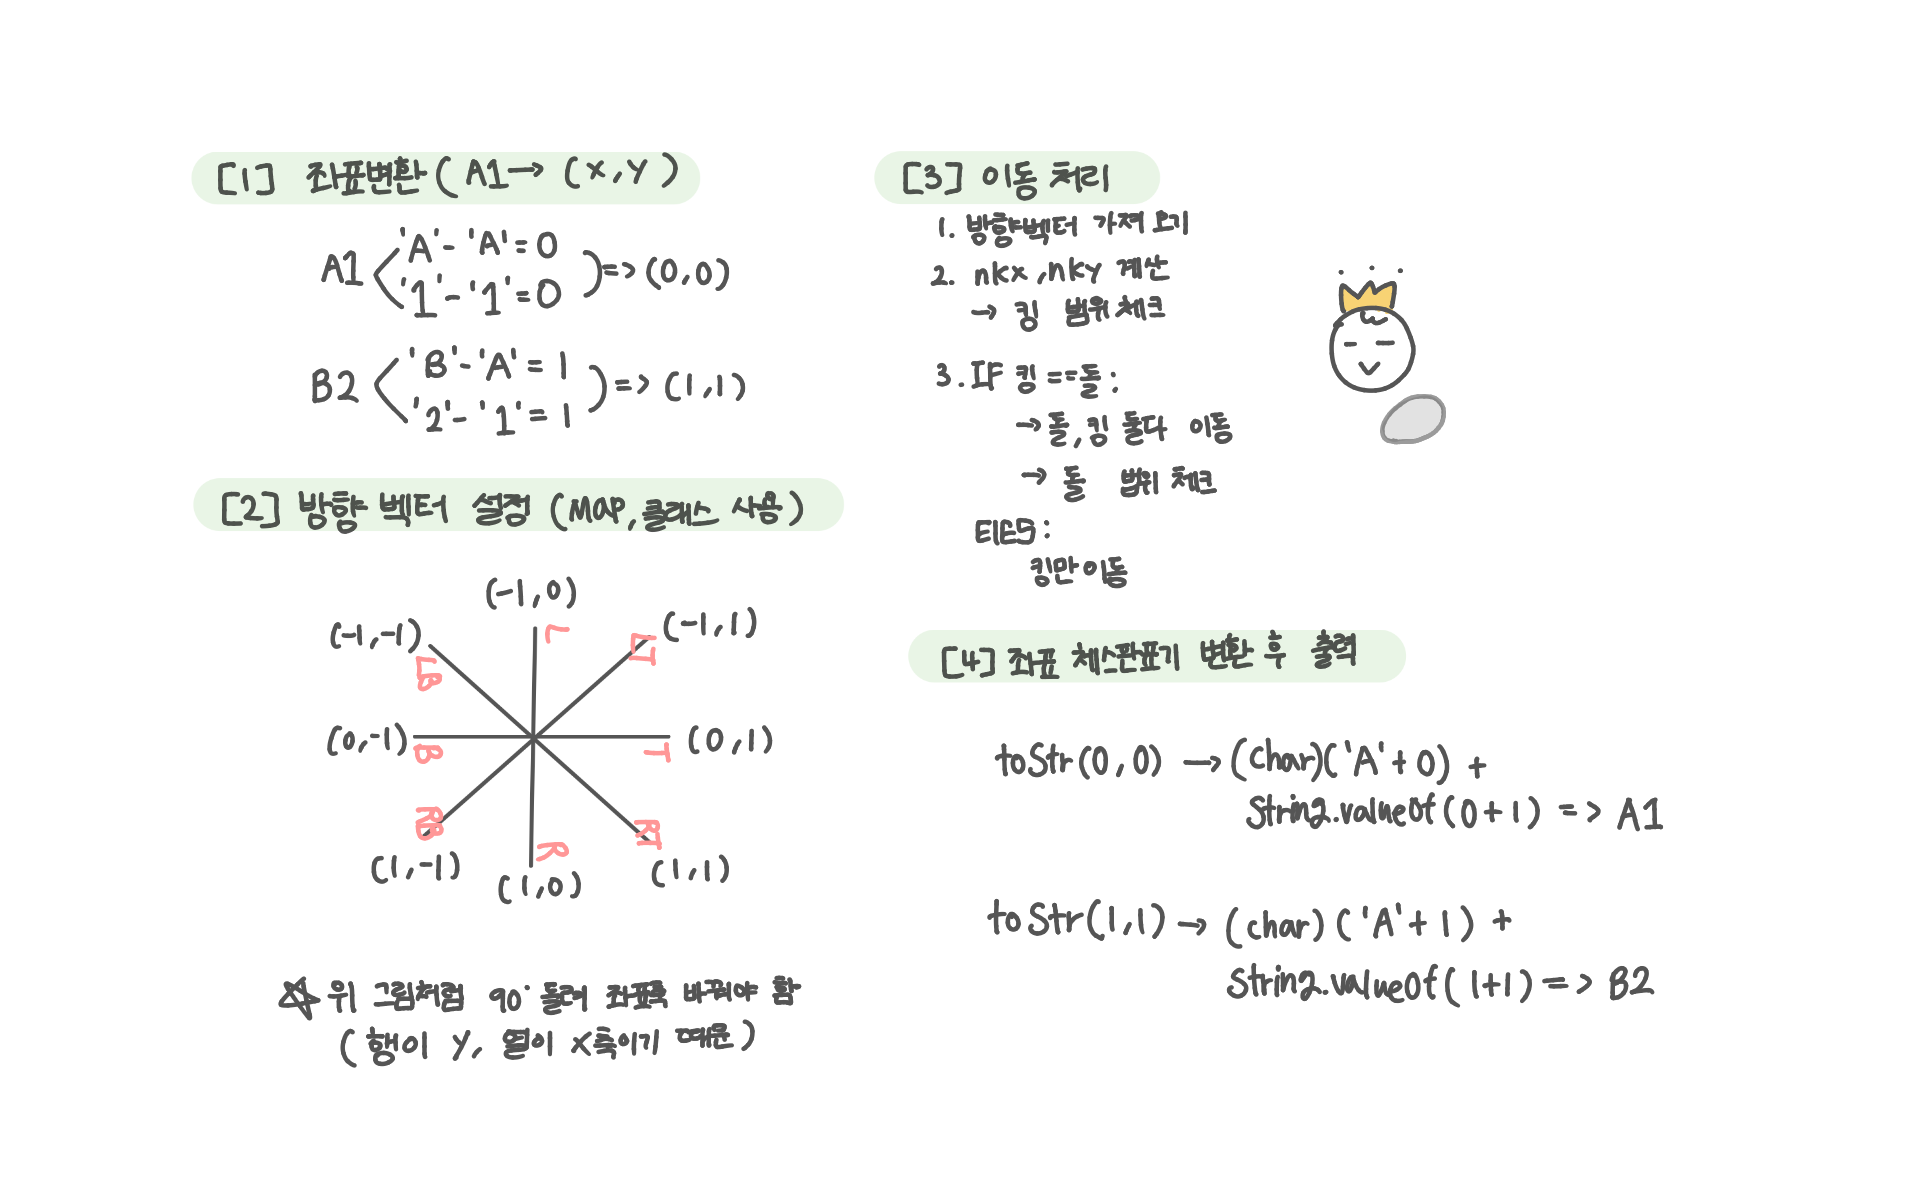
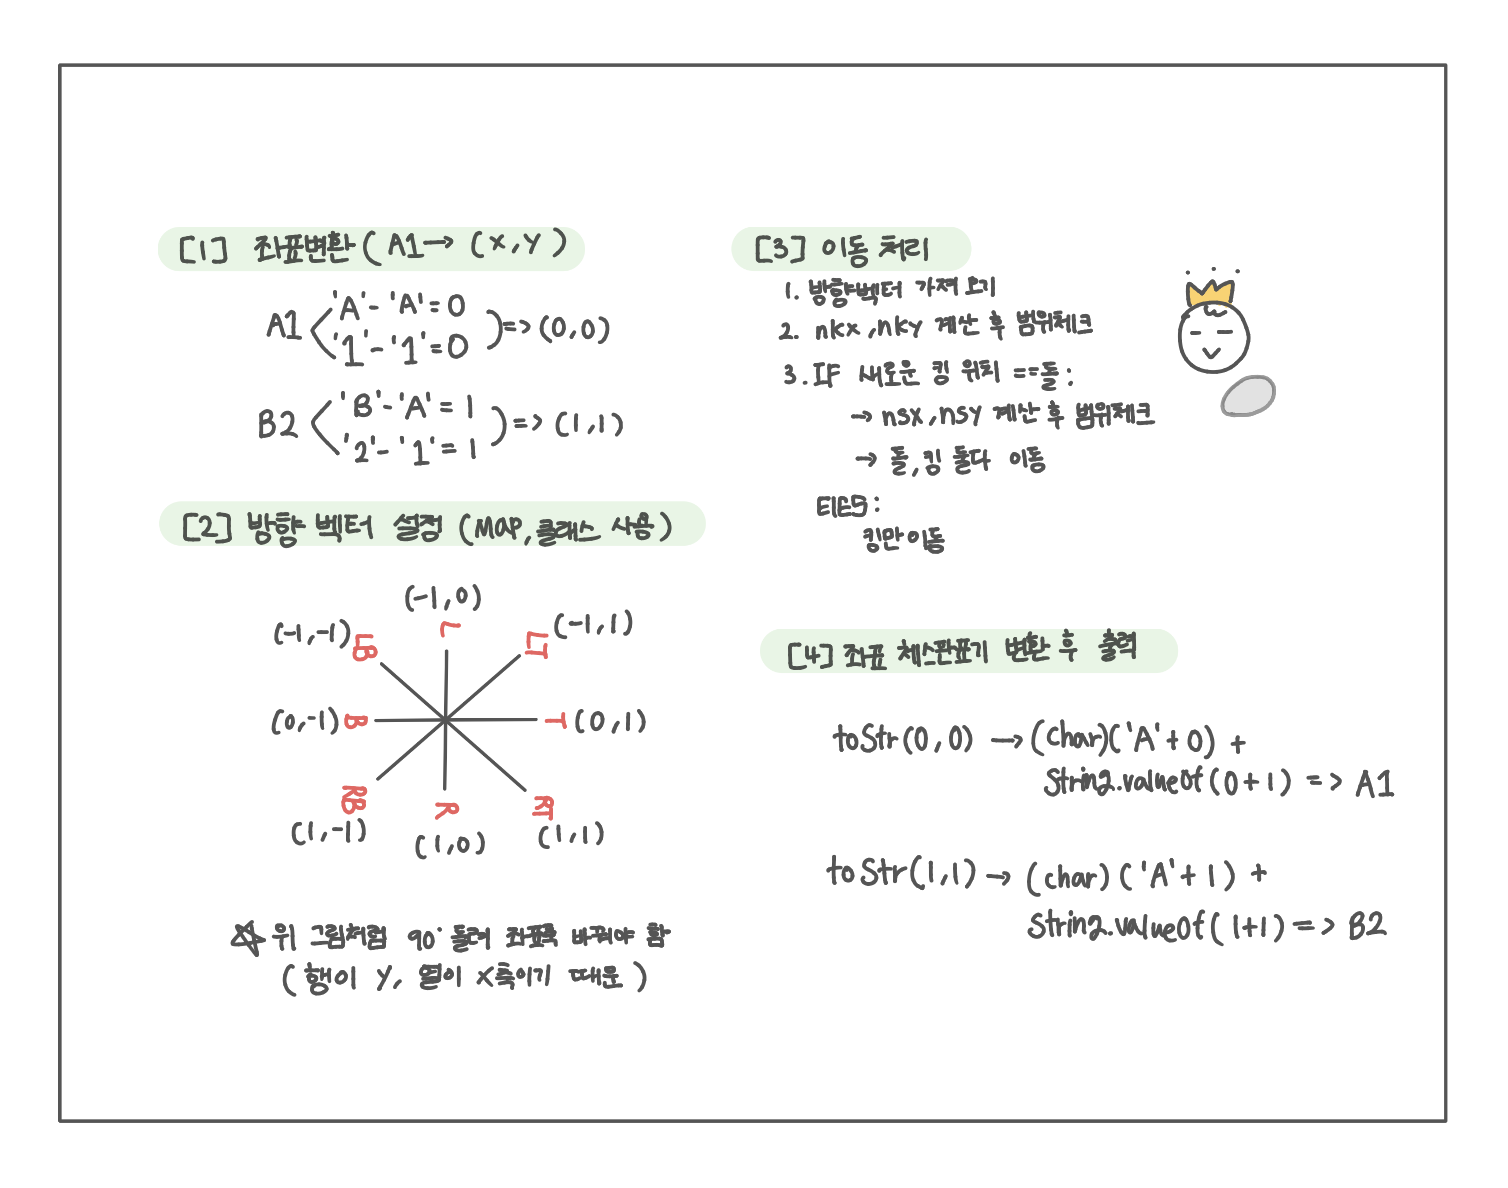
백준 20436번 - ZOAC 3

diff --git a/_posts/CS/Algorithm/2025-08-12-[JAVA] 백준 20436번 - ZOAC 3.md b/_posts/CS/Algorithm/2025-08-12-[JAVA] 백준 20436번 - ZOAC 3.md
@@ -23,20 +23,102 @@ sidebar:
 
 ## 문제 도식화
 
-<br>
-
-## 알고리즘 선택
-
-<br>
-
-## 배운 점
+![assets/images/2025/20436.png](../../../assets/images/2025/20436.png)
 
 <br><br>
 
 # 💻 전체 코드
 
 ```java
+import java.io.*;
+import java.util.*;
 
+public class Main {
+    static Map<Character, Pos> leftKeyMap = new HashMap<>();
+    static Map<Character, Pos> rightKeyMap = new HashMap<>();
+    static Pos leftPos, rightPos;
+
+    public static void main(String[] args) throws IOException {
+        BufferedReader br = new BufferedReader(new InputStreamReader(System.in));
+
+        StringTokenizer st = new StringTokenizer(br.readLine());
+        char sl = st.nextToken().charAt(0); // 왼손 시작 키
+        char sr = st.nextToken().charAt(0); // 오른손 시작 키
+
+        String input = br.readLine();
+
+        initKeyboard();
+
+        // 시작 위치 지정
+        leftPos = leftKeyMap.get(sl);
+        rightPos = rightKeyMap.get(sr);
+
+        int result = calTime(input);
+        System.out.println(result);
+    }
+
+
+    static int calTime(String s){
+        int totalTime = 0;
+
+        for(int i=0; i<s.length(); i++){
+            char ch = s.charAt(i);
+
+            if (leftKeyMap.containsKey(ch)) {
+                Pos next = leftKeyMap.get(ch);
+                totalTime += Math.abs(leftPos.x - next.x) + Math.abs(leftPos.y - next.y) + 1;
+                leftPos = next;
+            } else {
+                Pos next = rightKeyMap.get(ch);
+                totalTime += Math.abs(rightPos.x - next.x) + Math.abs(rightPos.y - next.y) + 1;
+                rightPos = next;
+            }
+        }
+        return totalTime;
+    }
+
+    static void initKeyboard(){
+        // 왼손 키
+        leftKeyMap.put('q', new Pos(0, 0));
+        leftKeyMap.put('w', new Pos(0, 1));
+        leftKeyMap.put('e', new Pos(0, 2));
+        leftKeyMap.put('r', new Pos(0, 3));
+        leftKeyMap.put('t', new Pos(0, 4));
+        leftKeyMap.put('a', new Pos(1, 0));
+        leftKeyMap.put('s', new Pos(1, 1));
+        leftKeyMap.put('d', new Pos(1, 2));
+        leftKeyMap.put('f', new Pos(1, 3));
+        leftKeyMap.put('g', new Pos(1, 4));
+        leftKeyMap.put('z', new Pos(2, 0));
+        leftKeyMap.put('x', new Pos(2, 1));
+        leftKeyMap.put('c', new Pos(2, 2));
+        leftKeyMap.put('v', new Pos(2, 3));
+
+        // 오른손 키
+        rightKeyMap.put('y', new Pos(0, 5));
+        rightKeyMap.put('u', new Pos(0, 6));
+        rightKeyMap.put('i', new Pos(0, 7));
+        rightKeyMap.put('o', new Pos(0, 8));
+        rightKeyMap.put('p', new Pos(0, 9));
+        rightKeyMap.put('h', new Pos(1, 5));
+        rightKeyMap.put('j', new Pos(1, 6));
+        rightKeyMap.put('k', new Pos(1, 7));
+        rightKeyMap.put('l', new Pos(1, 8));
+        rightKeyMap.put('b', new Pos(2, 4));
+        rightKeyMap.put('n', new Pos(2, 5));
+        rightKeyMap.put('m', new Pos(2, 6));
+    }
+
+    static class Pos{
+        int x;
+        int y;
+
+        public Pos(int x, int y){
+            this.x = x;
+            this.y = y;
+        }
+    }
+}
 ```
 
 <br>

diff --git a/_posts/CS/Algorithm/2025-08-12-[JAVA] 백준 1063번 - 킹.md b/_posts/CS/Algorithm/2025-08-12-[JAVA] 백준 1063번 - 킹.md
@@ -31,6 +31,8 @@ sidebar:
 
 # 💻 전체 코드
 
+특정 문자의 좌표는 **map**으로, 좌표는 x, y 값을 편하게 관리하기 위해 **클래스**로 처리하자.
+
 ```java
 import java.io.*;
 import java.util.*;
@@ -97,14 +99,15 @@ public class Main {
         return (char)('A' + x) + String.valueOf(y + 1);
     }
 
+    // 방향 벡터 설정
     static void initDir(){
-        dir.put("R",  new Pos( 1,  0));
-        dir.put("L",  new Pos(-1,  0));
-        dir.put("B",  new Pos( 0, -1));
-        dir.put("T",  new Pos( 0,  1));
-        dir.put("RT", new Pos( 1,  1));
-        dir.put("LT", new Pos(-1,  1));
-        dir.put("RB", new Pos( 1, -1));
+        dir.put("R",  new Pos(1, 0));
+        dir.put("L",  new Pos(-1, 0));
+        dir.put("B",  new Pos(0, -1));
+        dir.put("T",  new Pos(0, 1));
+        dir.put("RT", new Pos(1, 1));
+        dir.put("LT", new Pos(-1, 1));
+        dir.put("RB", new Pos(1, -1));
         dir.put("LB", new Pos(-1, -1));
     }
 
